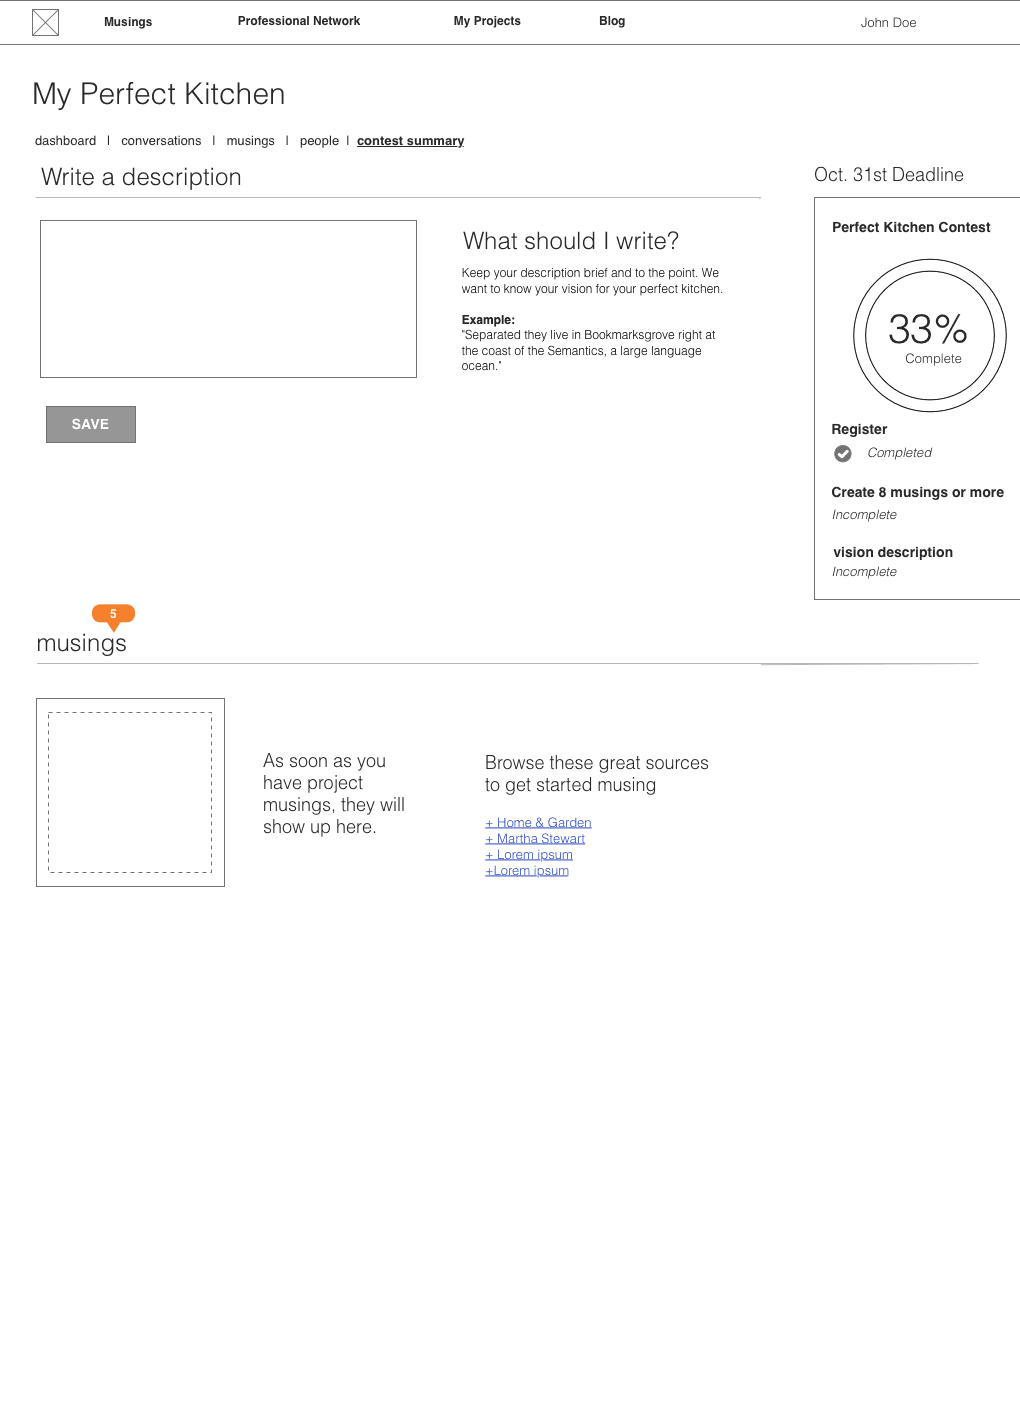
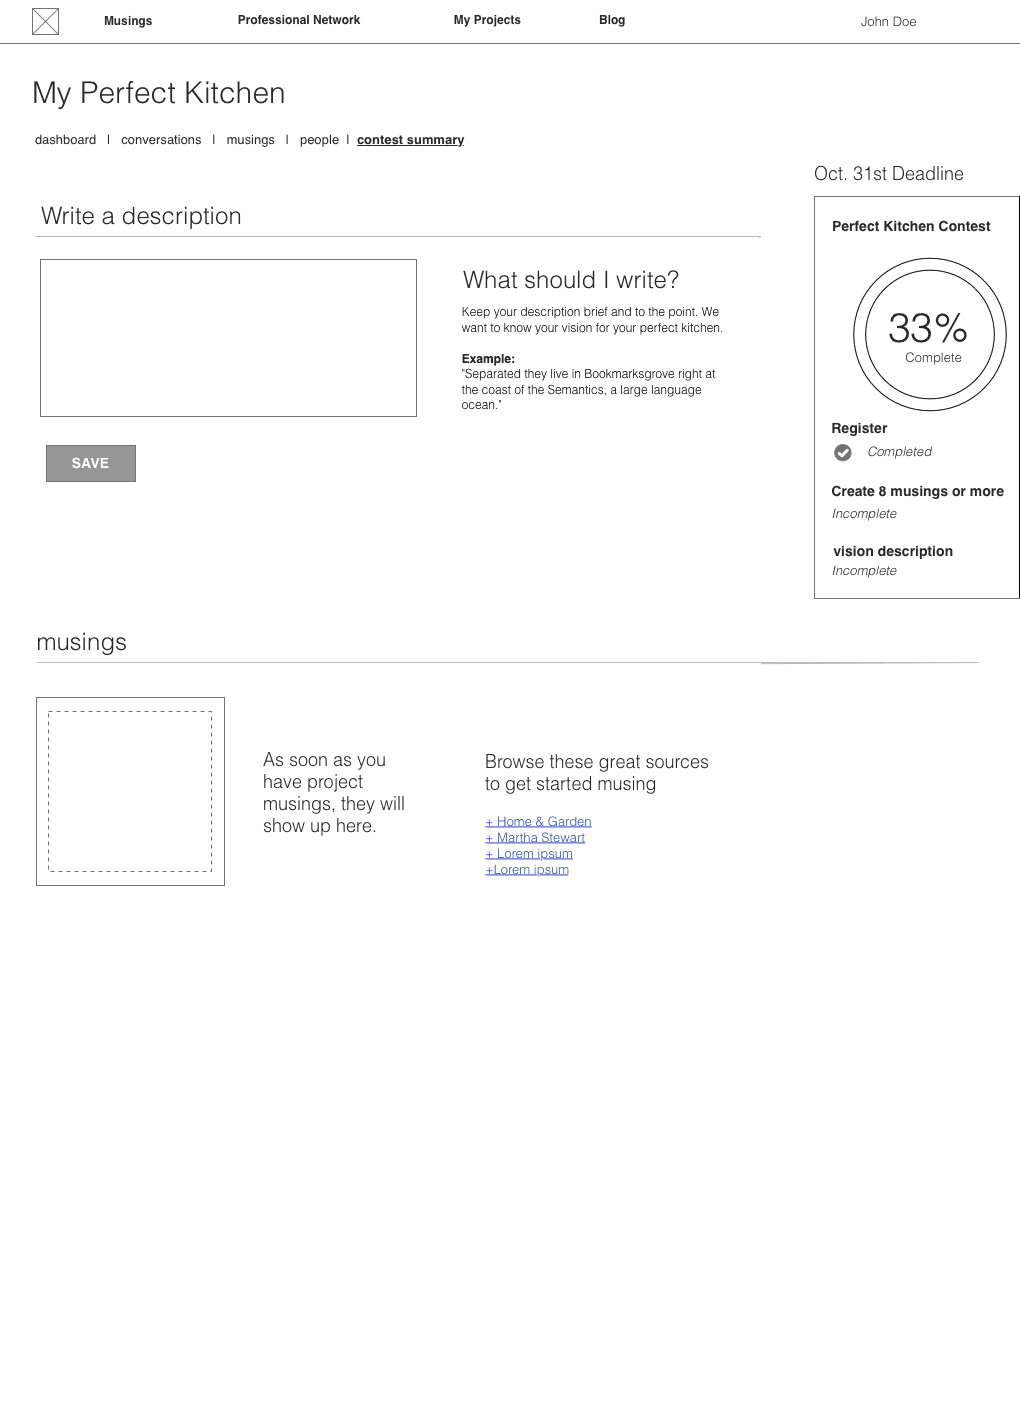
prototype: happy path clickthrough

diff --git a/src/documents/styles/prototypes/all.css.sass b/src/documents/styles/prototypes/all.css.sass
@@ -18,7 +18,7 @@
   border-bottom: 1px solid black
   position: fixed
   width: 100%
-  background-image: url(/images/prototypes/contest/00_Landing_NewUser.png)
+  background-image: url(/images/prototypes/contest/02_Interstitial.png)
   background-color: white
   background-position: center 0
   background-repeat: no-repeat

diff --git a/src/documents/styles/prototypes/contest/landing-anonymous.css.sass b/src/documents/styles/prototypes/contest/landing-anonymous.css.sass
@@ -6,3 +6,6 @@
   width: 150px
   left: 580px
   top: 1194px
+
+.nav
+  background-image: url(/images/prototypes/contest/00_Landing_NewUser.png) 

diff --git a/src/documents/styles/prototypes/contest/contest-summary.css.sass b/src/documents/styles/prototypes/contest/contest-summary.css.sass
@@ -1,0 +1,10 @@
+.container
+  top: -2px
+
+
+.hot-spot
+  left: 33px
+  width: 70px
+  height: 20px
+  top: 130px
+  background: transparent

diff --git a/src/documents/styles/prototypes/contest/dashboard.css.sass b/src/documents/styles/prototypes/contest/dashboard.css.sass
@@ -1,0 +1,8 @@
+.container
+  top: -1px
+
+.hot-spot
+  background: transparent
+  height: 20px
+  left: 362px
+  top: 130px
